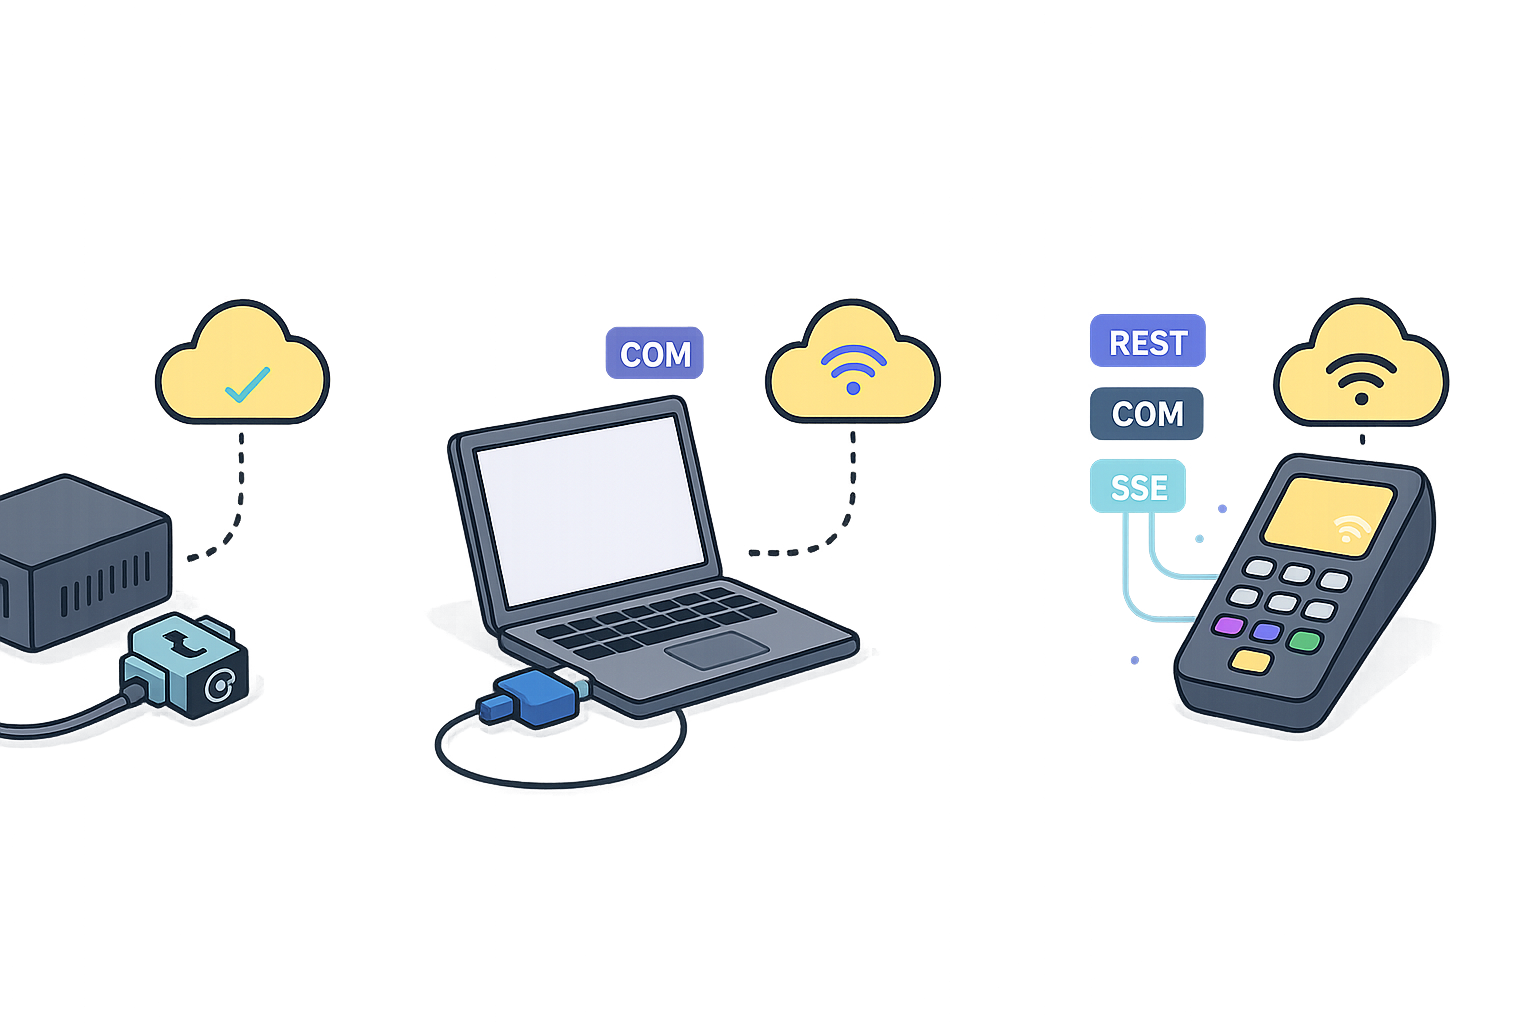
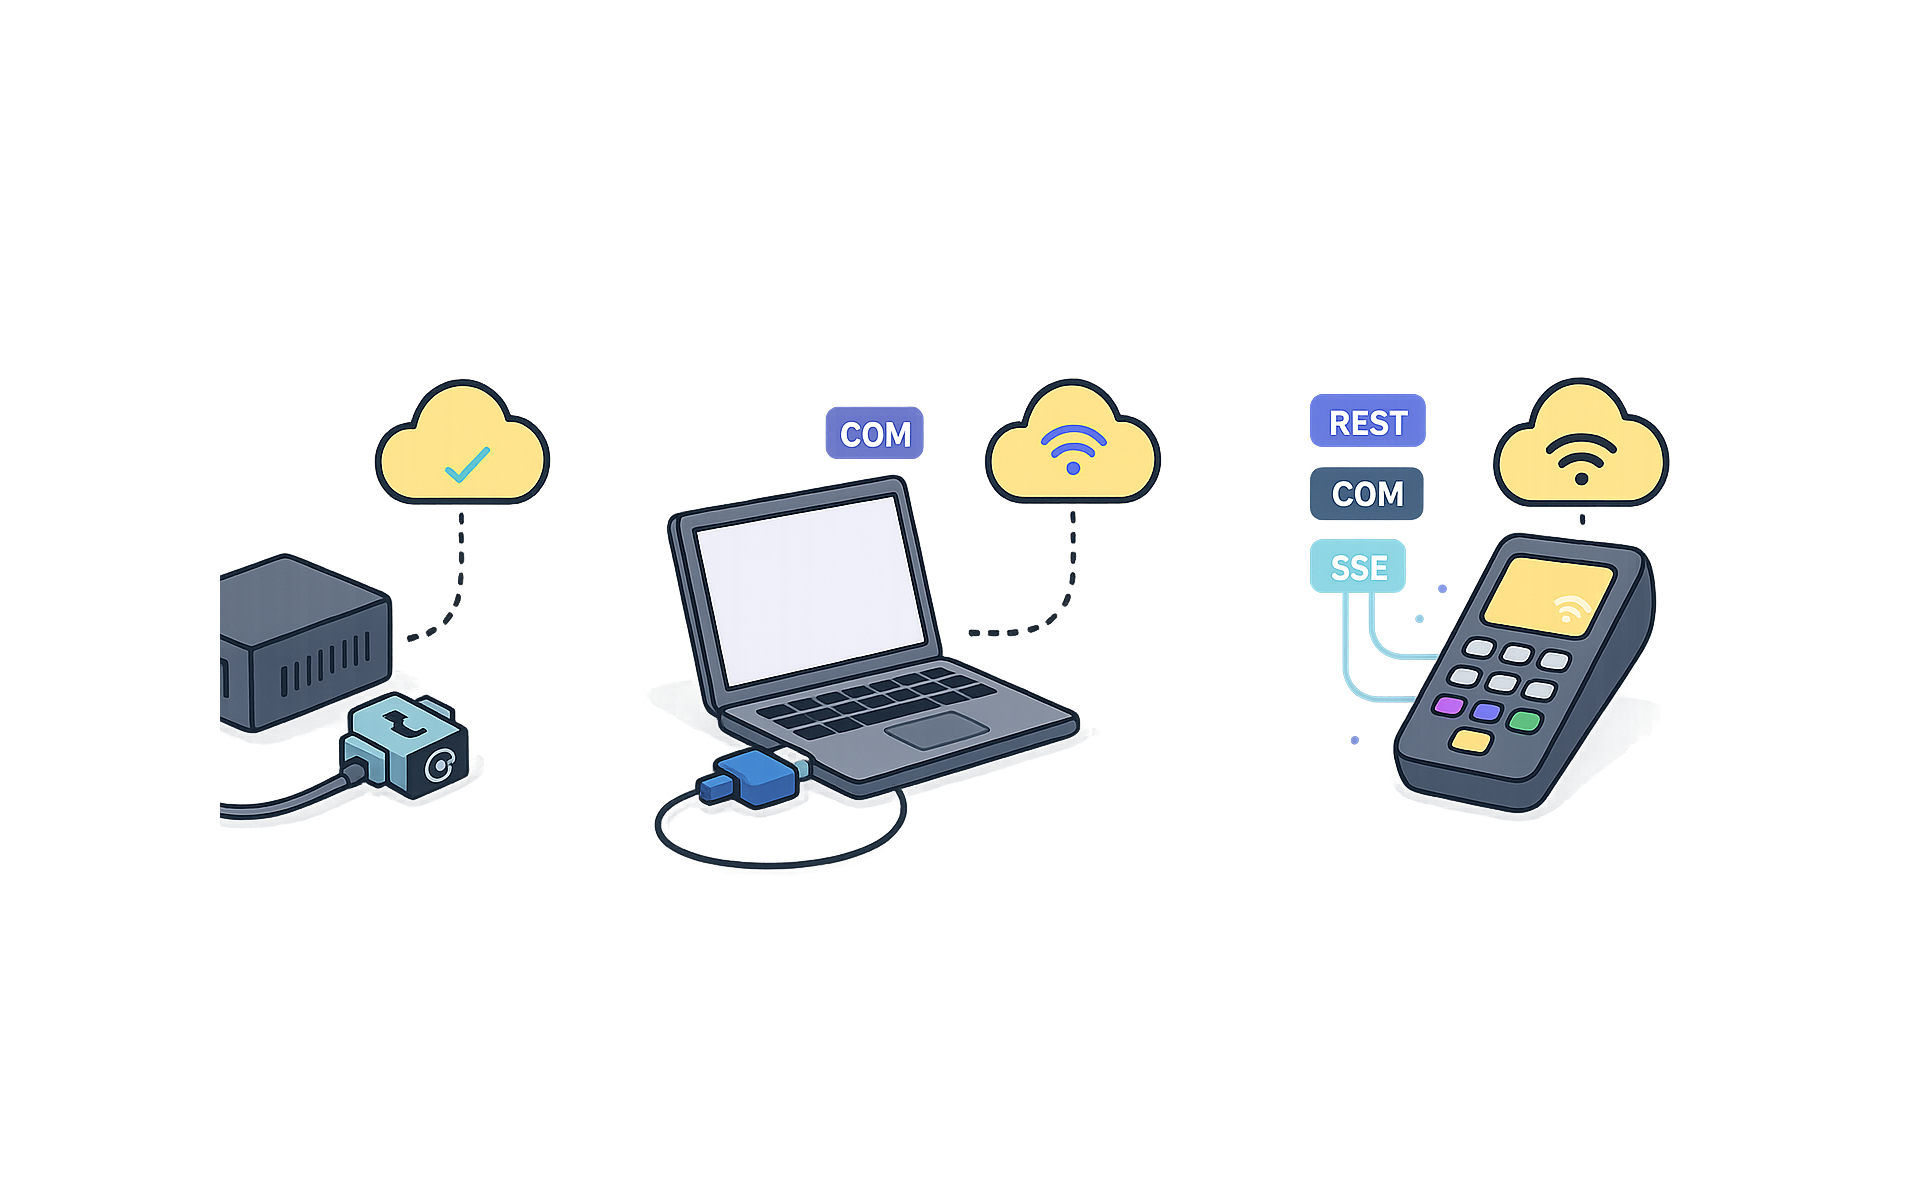
graphic adjust

Changed region(s): [[0.0938, 0.2812, 0.625, 0.7812], [0.6562, 0.2812, 0.9688, 0.7188], [0.0, 0.4375, 0.25, 0.75]]

diff --git a/templates/landing.html b/templates/landing.html
@@ -406,13 +406,15 @@
                     </div>
                 </div>
 
-                <!-- New graphic card -->
-                <figure class="relative isolate rounded-2xl p-0 bg-transparent border-0 shadow-none">
-                    <img src="/static/media/device-cloud-telemetry.png"
-                         alt="Device sends telemetry to the SigStream cloud, then to the dashboard"
-                         width="1600" height="1000" loading="lazy"
-                         class="block mx-auto w-full max-w-[760px] mix-blend-multiply saturate-110 contrast-105 select-none pointer-events-none" />
-                </figure>
+                <!-- Centered graphic, transparent PNG, no cropping -->
+                <div class="lg:col-span-2 mt-6">
+                    <figure class="flex justify-center">
+                        <img src="/static/media/sigstream-device-cloud-transparent-pad.png"
+                             alt="Device → cloud → dashboard telemetry"
+                             class="block mx-auto w-full max-w-[1100px] h-auto object-contain select-none pointer-events-none" />
+                    </figure>
+                </div>
+
             </div>
 
 </section>
